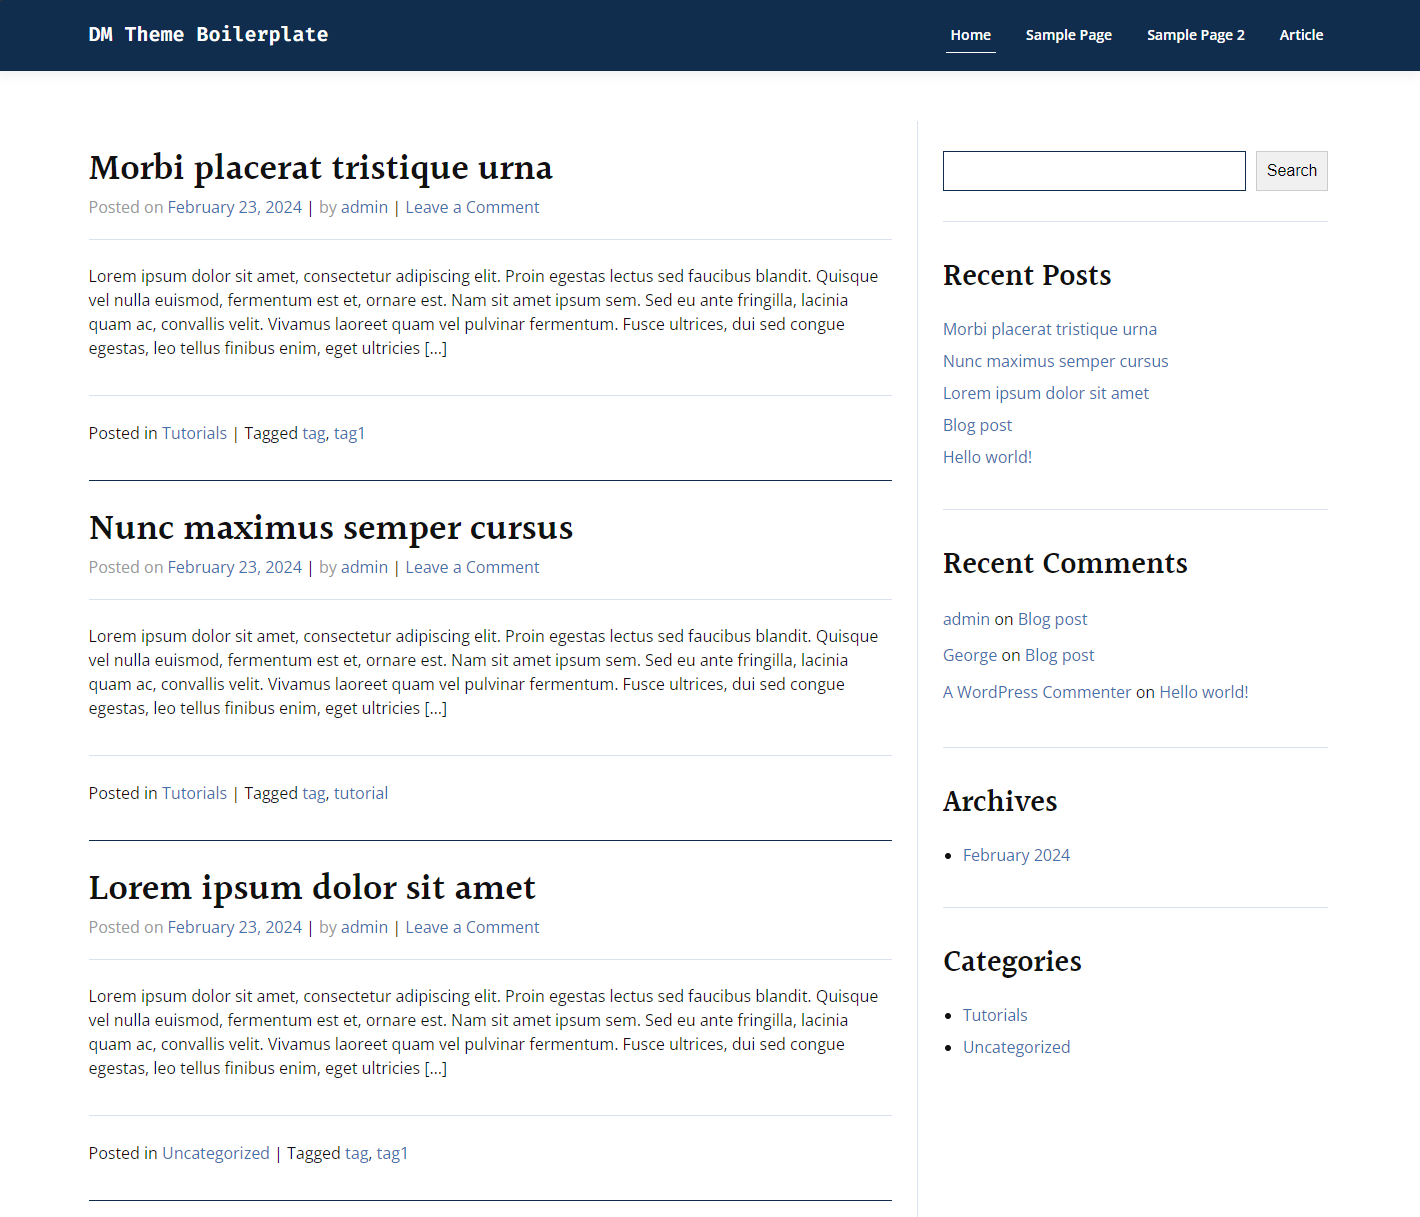
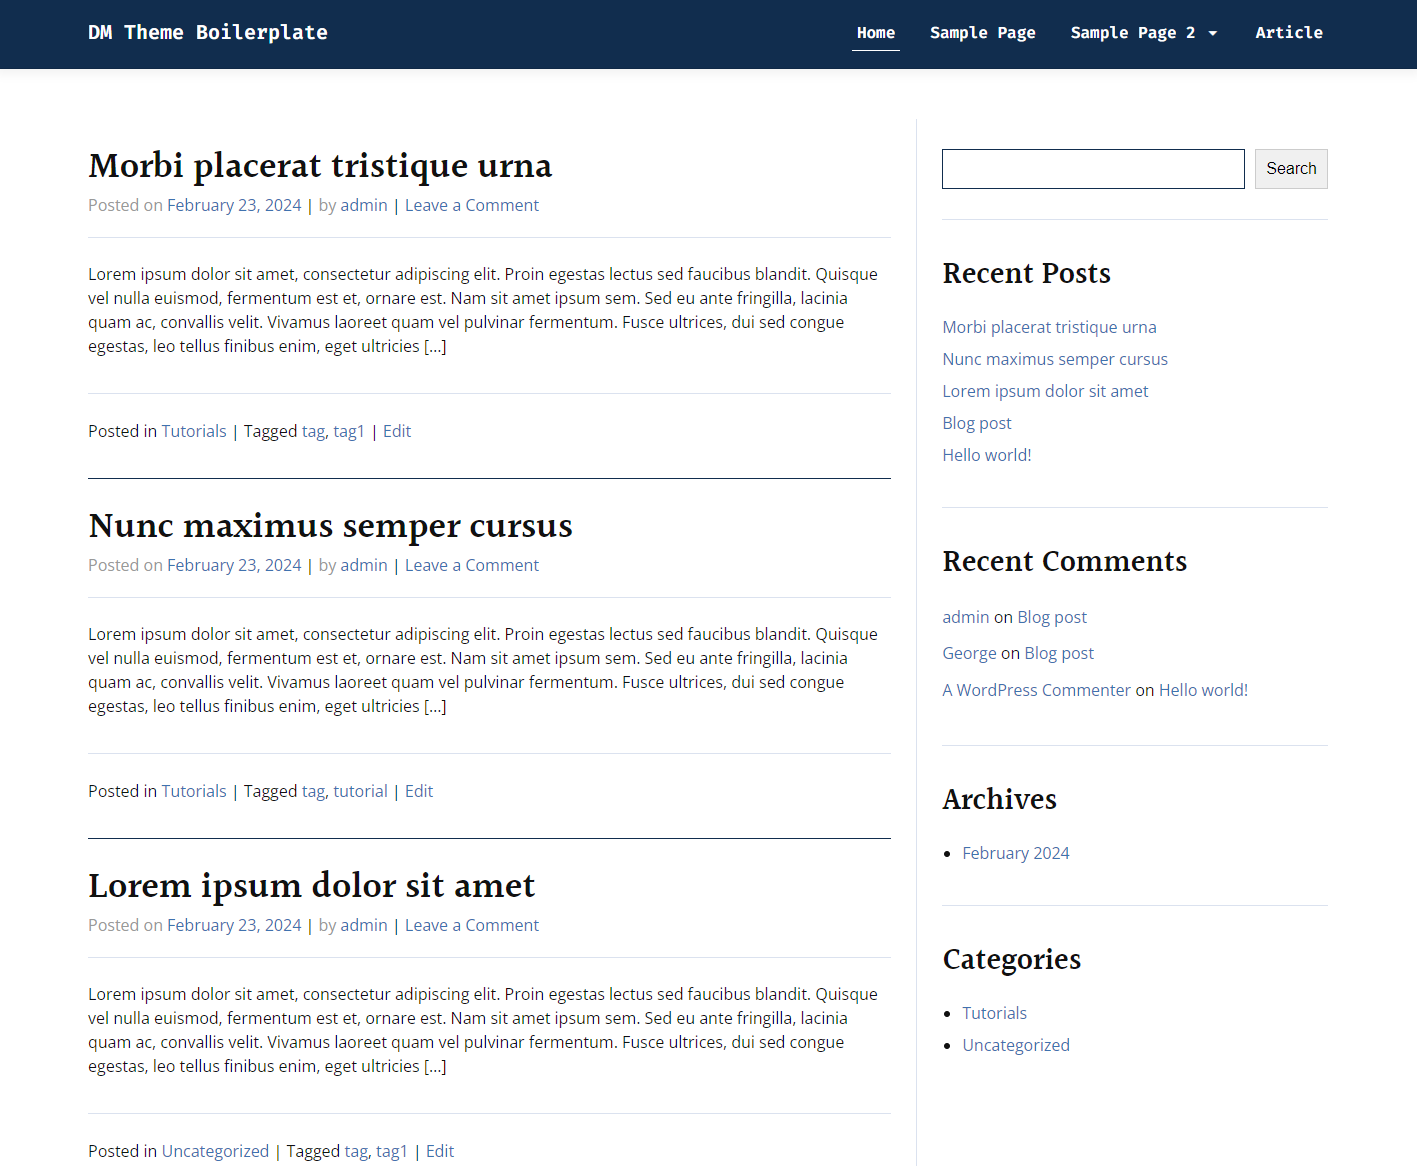
Fix header

diff --git a/inc/assets/css/scss/layout/_header.scss b/inc/assets/css/scss/layout/_header.scss
@@ -42,7 +42,7 @@ body #masthead {
             color: $white;
             padding: 0.5rem;
             font-weight: 600;
-            font-size: 1.4rem;
+            font-size: 1.6rem;
             border-bottom: 1px solid transparent;
             column-gap: 0.5rem;
             font-family: $firacode;
